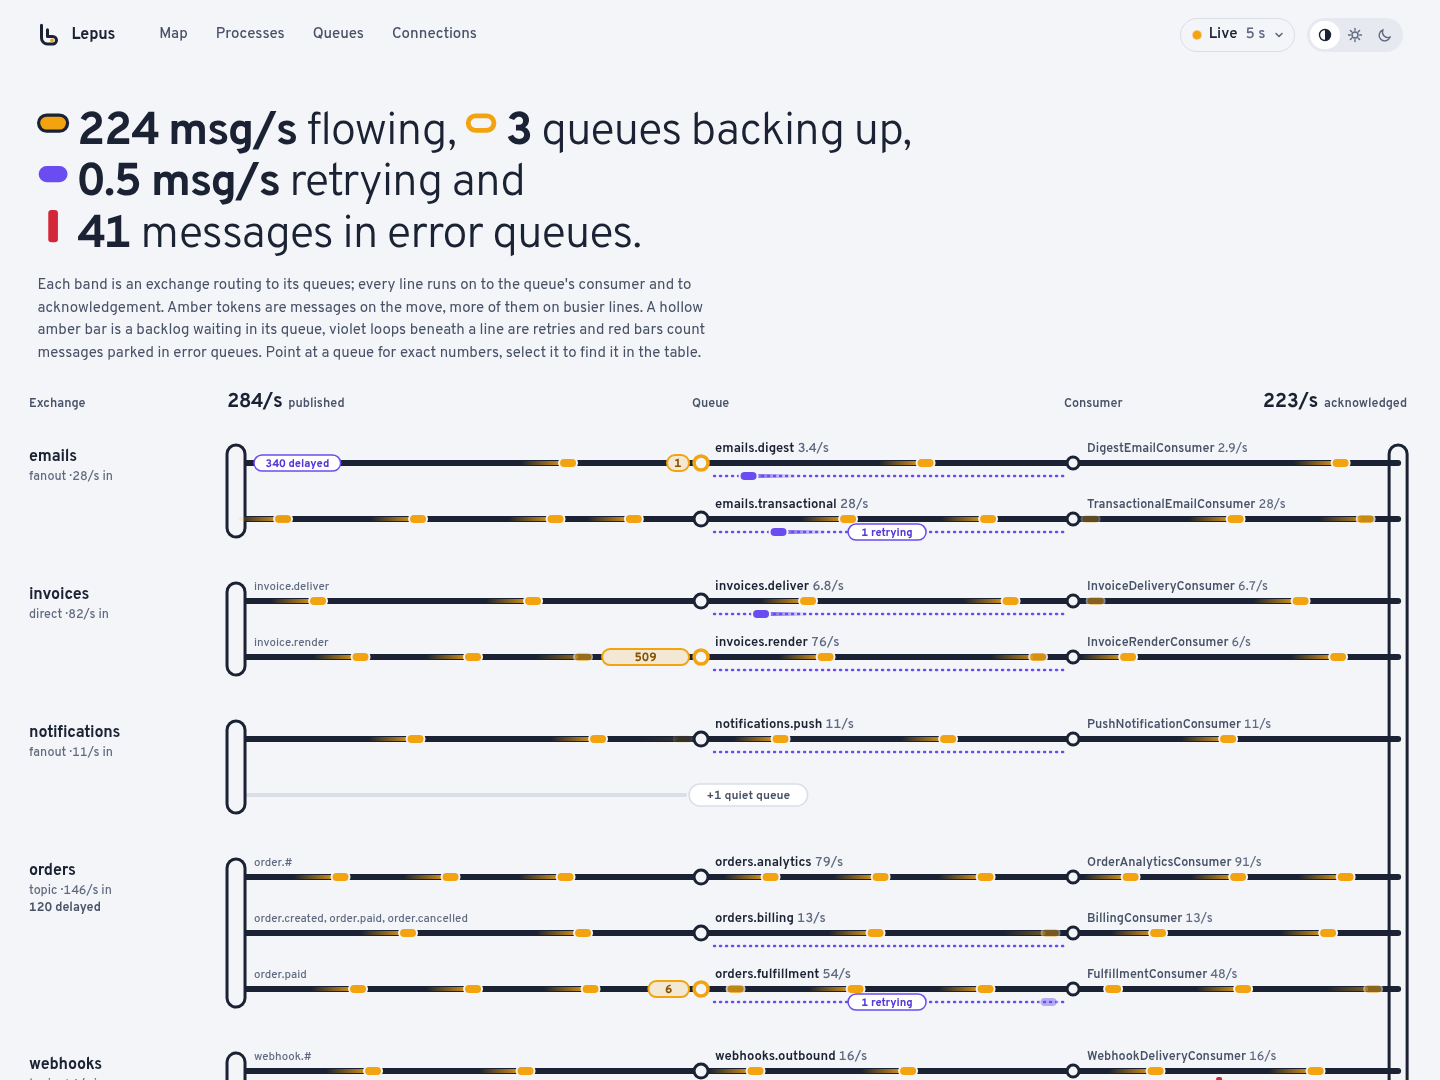
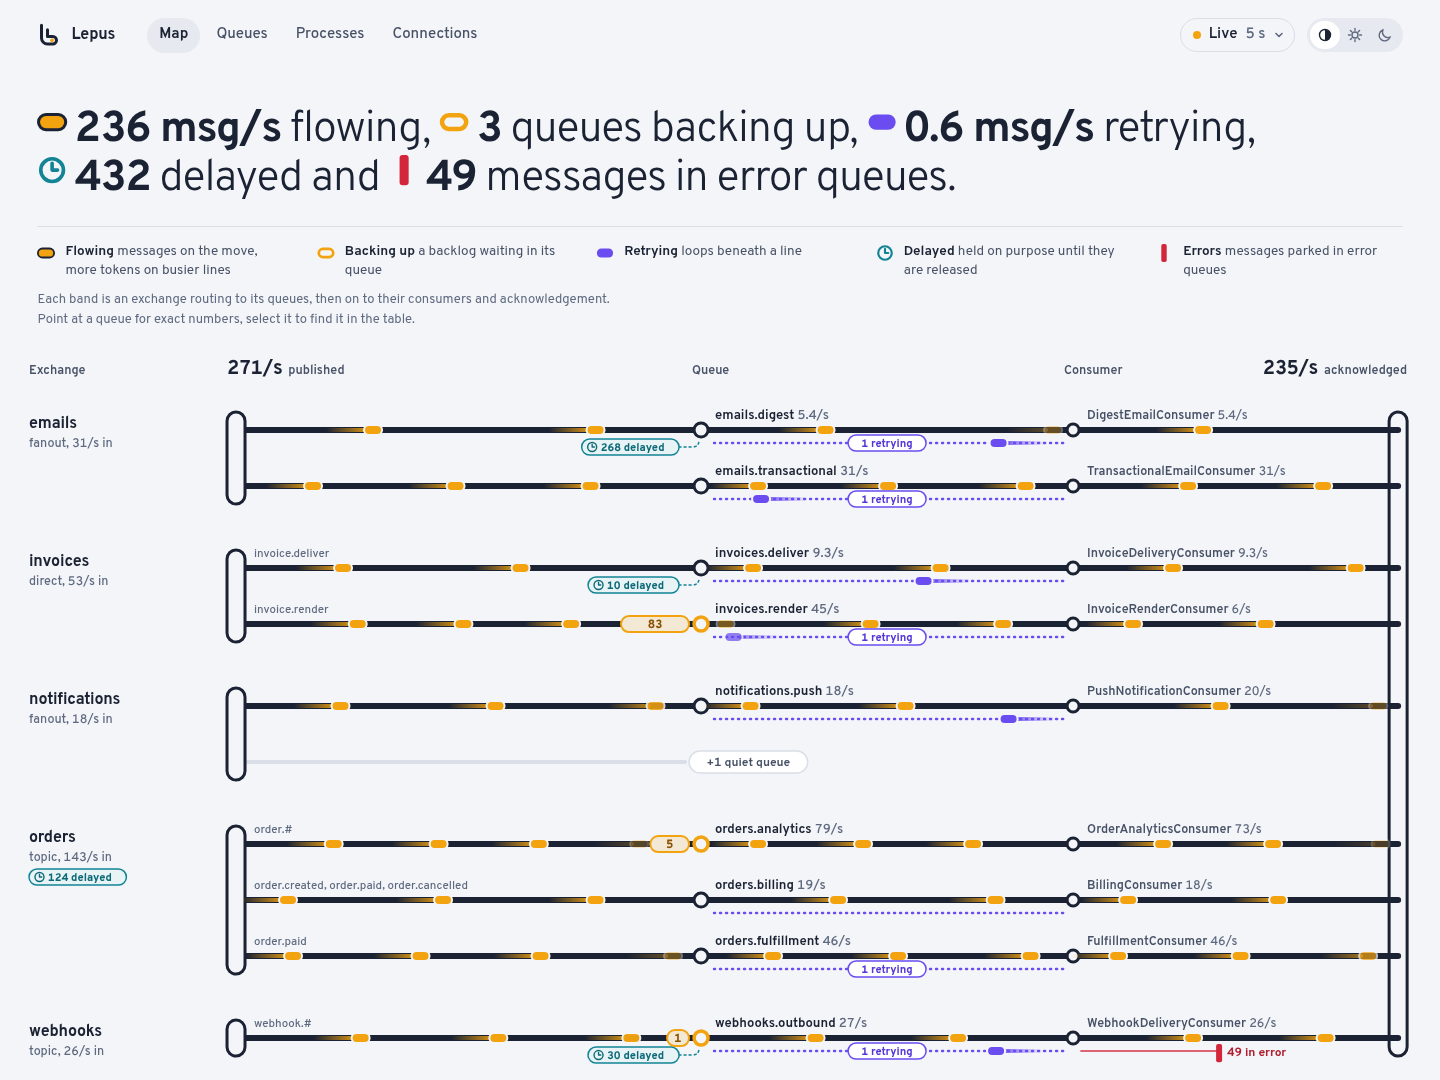
docs: keep the dashboard screenshot in its section and refresh it (#22)

diff --git a/README.md b/README.md
@@ -5,8 +5,6 @@
   </picture>
 </h1>
 
-![Lepus web dashboard](docs/images/lepus-web.png)
-
 Lepus is a lightweight but powerful Ruby library to help you to consume and produce messages to [RabbitMQ](https://www.rabbitmq.com/) using the [Bunny](https://github.com/ruby-amqp/bunny) gem. It's similar to the Sidekiq, Faktory, ActiveJob, SolidQueue, and other libraries, but using RabbitMQ as the message broker.
 
 ## Documentation
